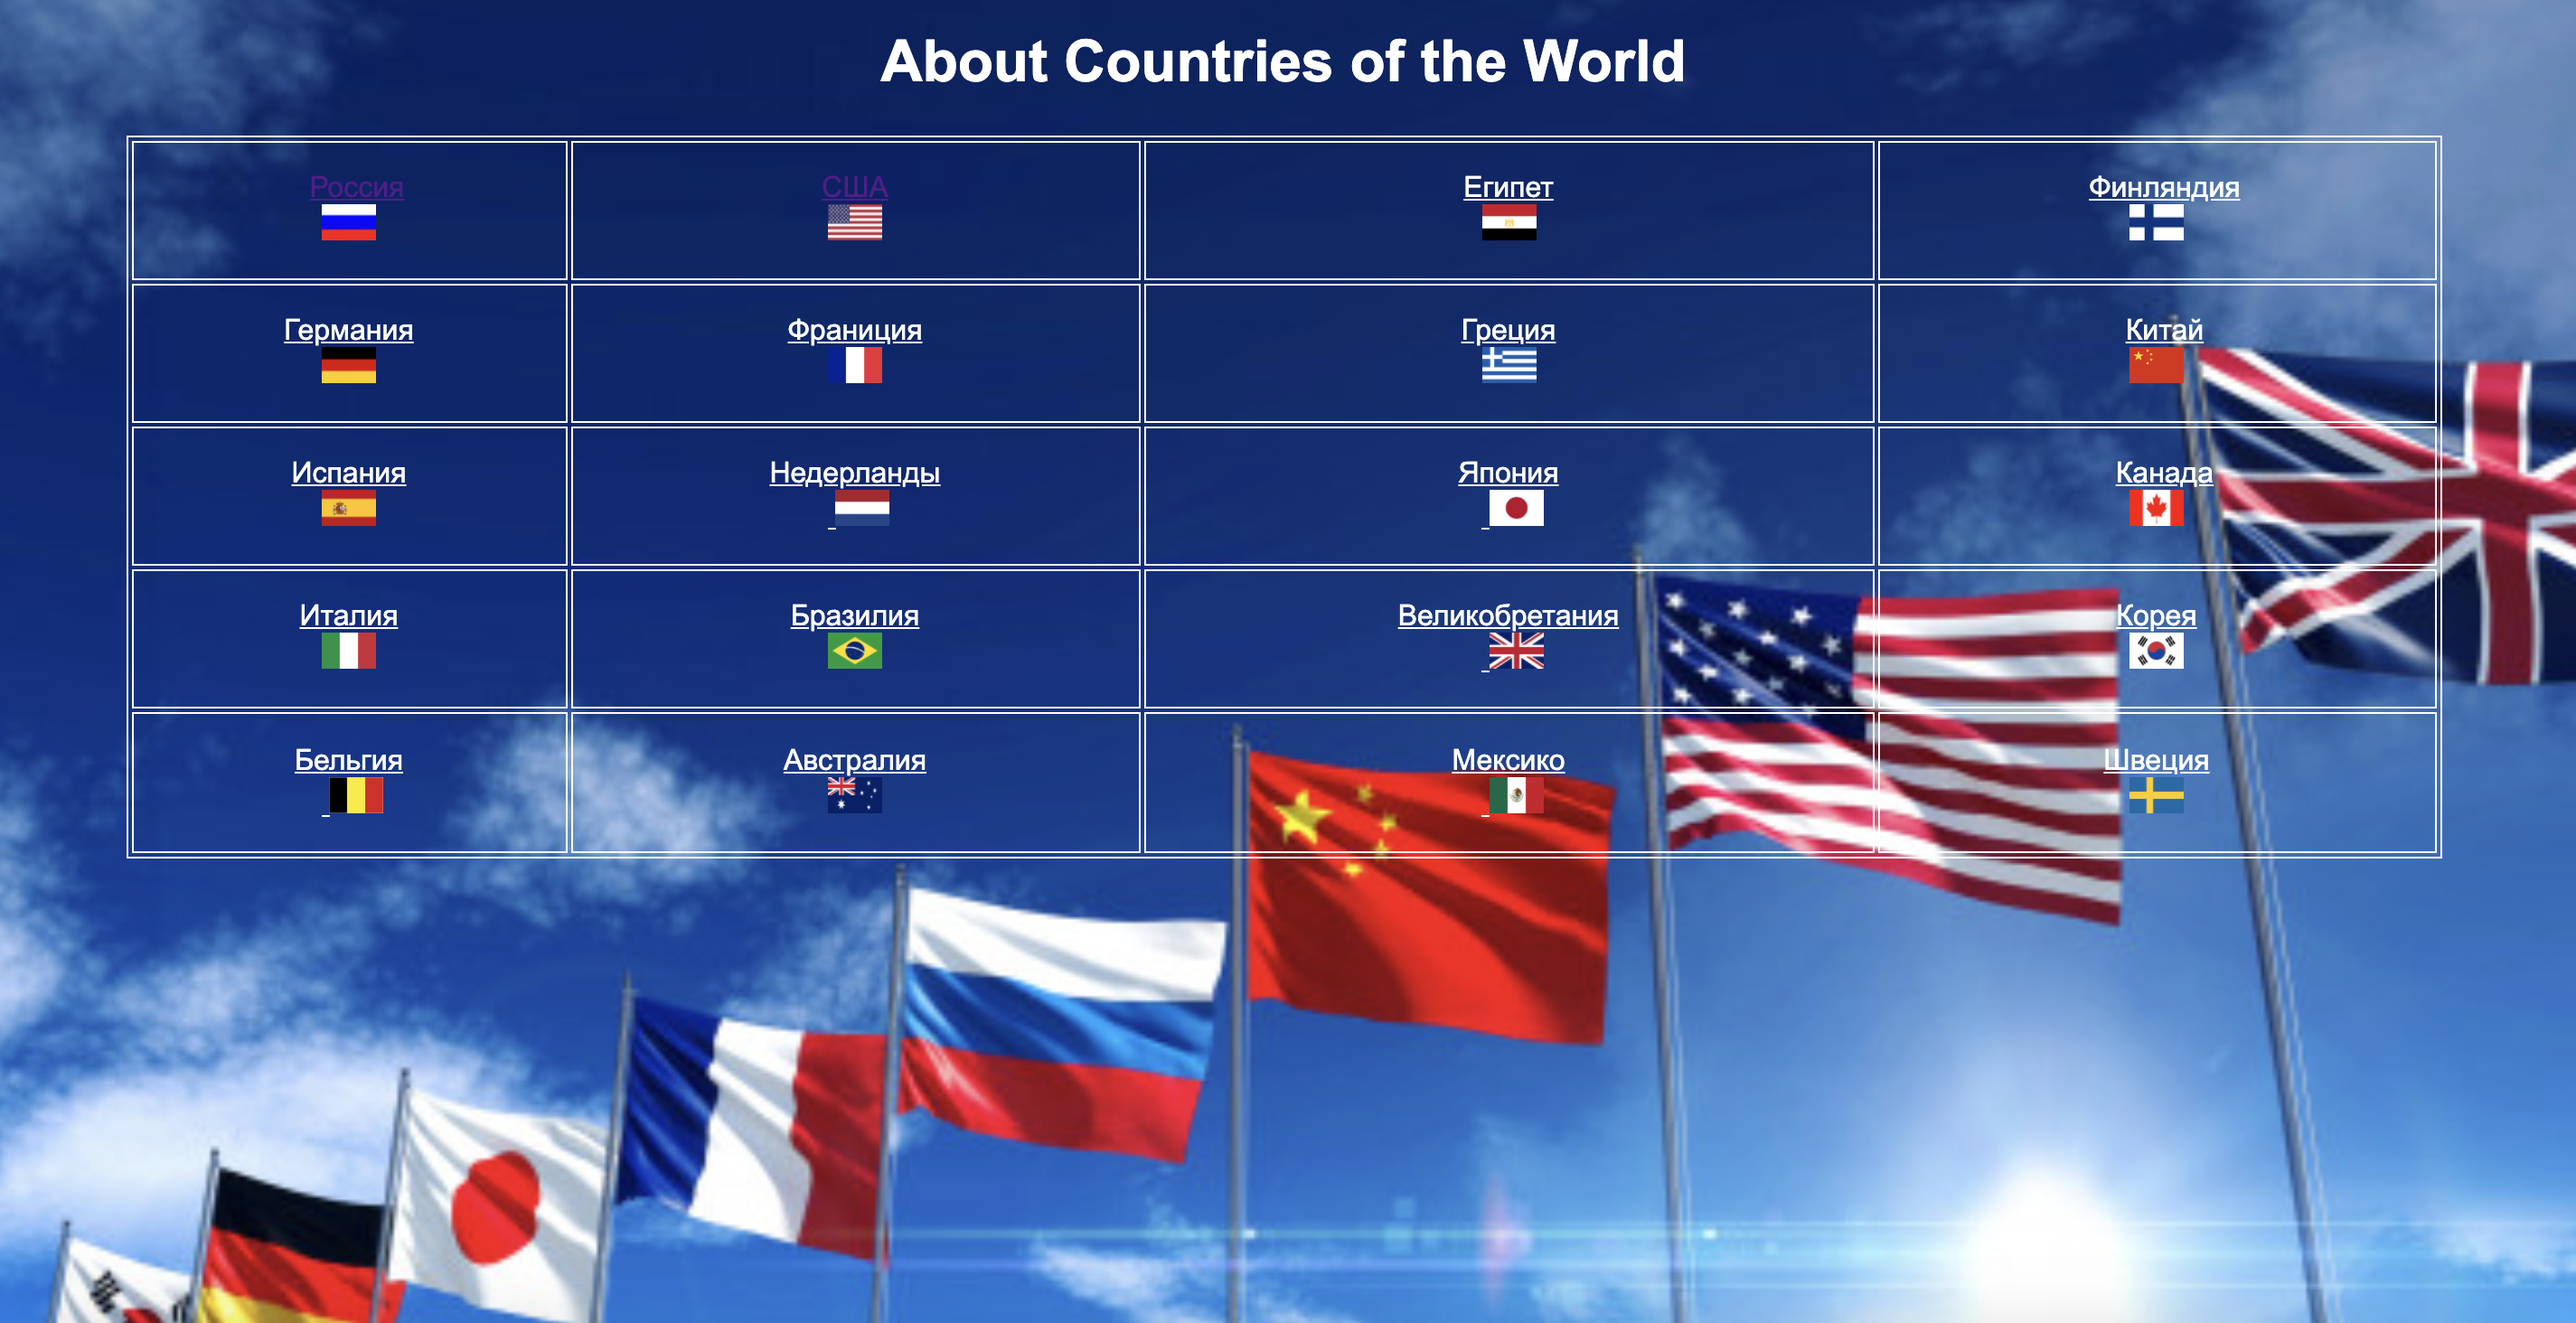
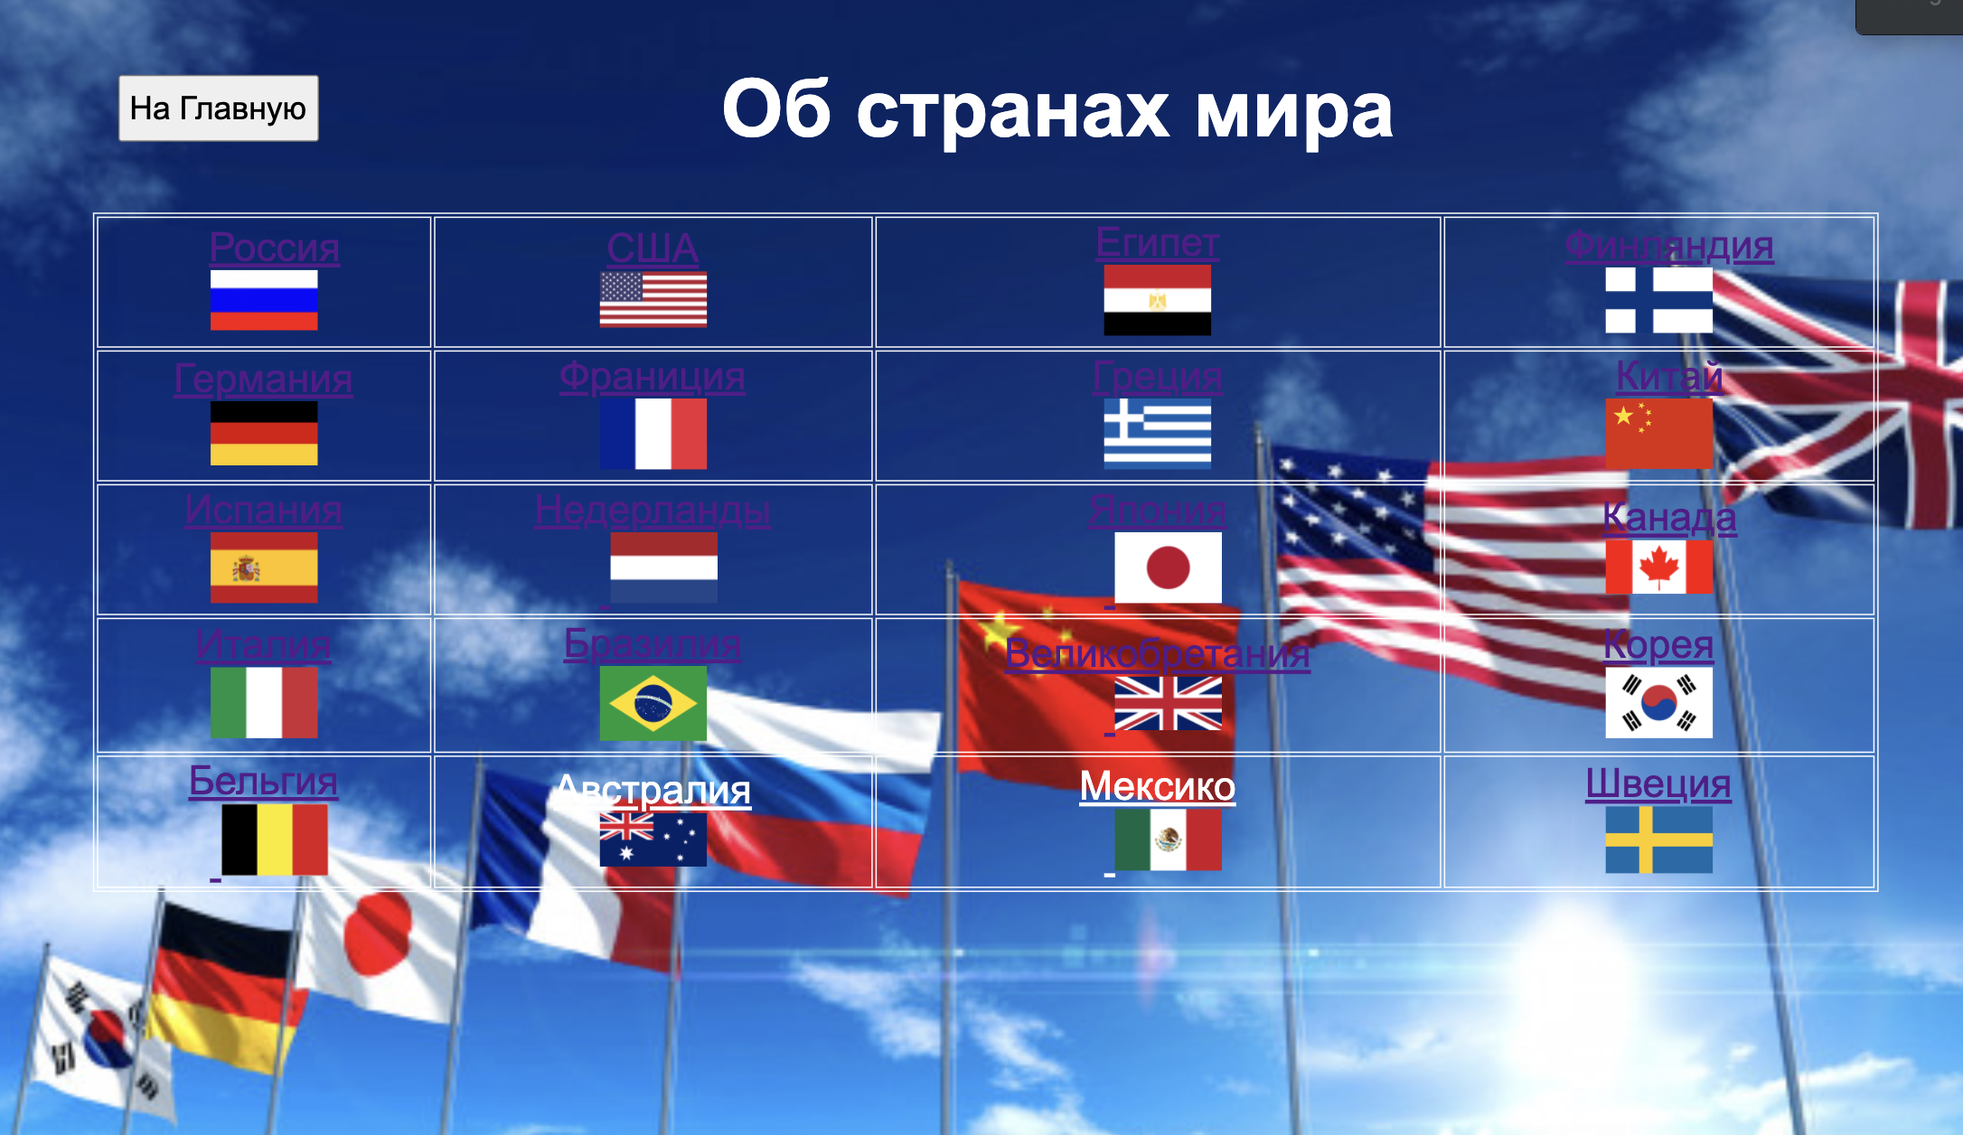
Add files via upload

diff --git a/indexallesp.html b/indexallesp.html
@@ -25,18 +25,18 @@
     <table class="center" border id="four">
     <tr>
         <td>
-            <a href="https://emirzo.github.io/indexglav1esp.html"><img src="site1.png" target="_blank" id="one"></a>
+            <a href="https://emirzo.github.io/indexglav1esp.html"><img src="site1esp.png" target="_blank" id="one"></a>
         </td>
         <td>
-            <a href="https://emirzo.github.io/indexcountryesp.html"><img src=site2.png target="_blank" id="one"></a>
+            <a href="https://emirzo.github.io/indexcountryesp.html"><img src=site2esp.png target="_blank" id="one"></a>
         </td>
         </tr>
         <tr>
         <td>
-            <a href="https://emirzo.github.io/indexglavesp"><img src=site3.png target="_blank" id="one"></a>
+            <a href="https://emirzo.github.io/indexglavesp"><img src="site3esp.png" target="_blank" id="one"></a>
             </td>
             <td>
-                <a href="https://jarmirzo-lab.github.io/indexesp.html"><img src="site4.png" target="_blank" id="one"></a>
+                <a href="https://jarmirzo-lab.github.io/indexesp.html"><img src="site4esp.png" target="_blank" id="one"></a>
             </td>
         </tr>
     </table>

diff --git a/indexallen.html b/indexallen.html
@@ -25,18 +25,18 @@
     <table class="center" border id="four">
     <tr>
         <td>
-            <a href="https://emirzo.github.io/indexglav1en.html"><img src="site1.png" target="_blank" id="one"></a>
+            <a href="https://emirzo.github.io/indexglav1en.html"><img src="site1en.png" target="_blank" id="one"></a>
         </td>
         <td>
-            <a href="https://emirzo.github.io/indexcountryen.html"><img src=site2.png target="_blank" id="one"></a>
+            <a href="https://emirzo.github.io/indexcountryen.html"><img src="site2en.png" target="_blank" id="one"></a>
         </td>
         </tr>
         <tr>
         <td>
-            <a href="https://emirzo.github.io/indexglaven"><img src=site3.png target="_blank" id="one"></a>
+            <a href="https://emirzo.github.io/indexglaven"><img src="site3en.png" target="_blank" id="one"></a>
             </td>
             <td>
-                <a href="https://jarmirzo-lab.github.io/indexen.html"><img src="site4.png" target="_blank" id="one"></a>
+                <a href="https://jarmirzo-lab.github.io/indexen.html"><img src="site4en.png" target="_blank" id="one"></a>
             </td>
         </tr>
     </table>
